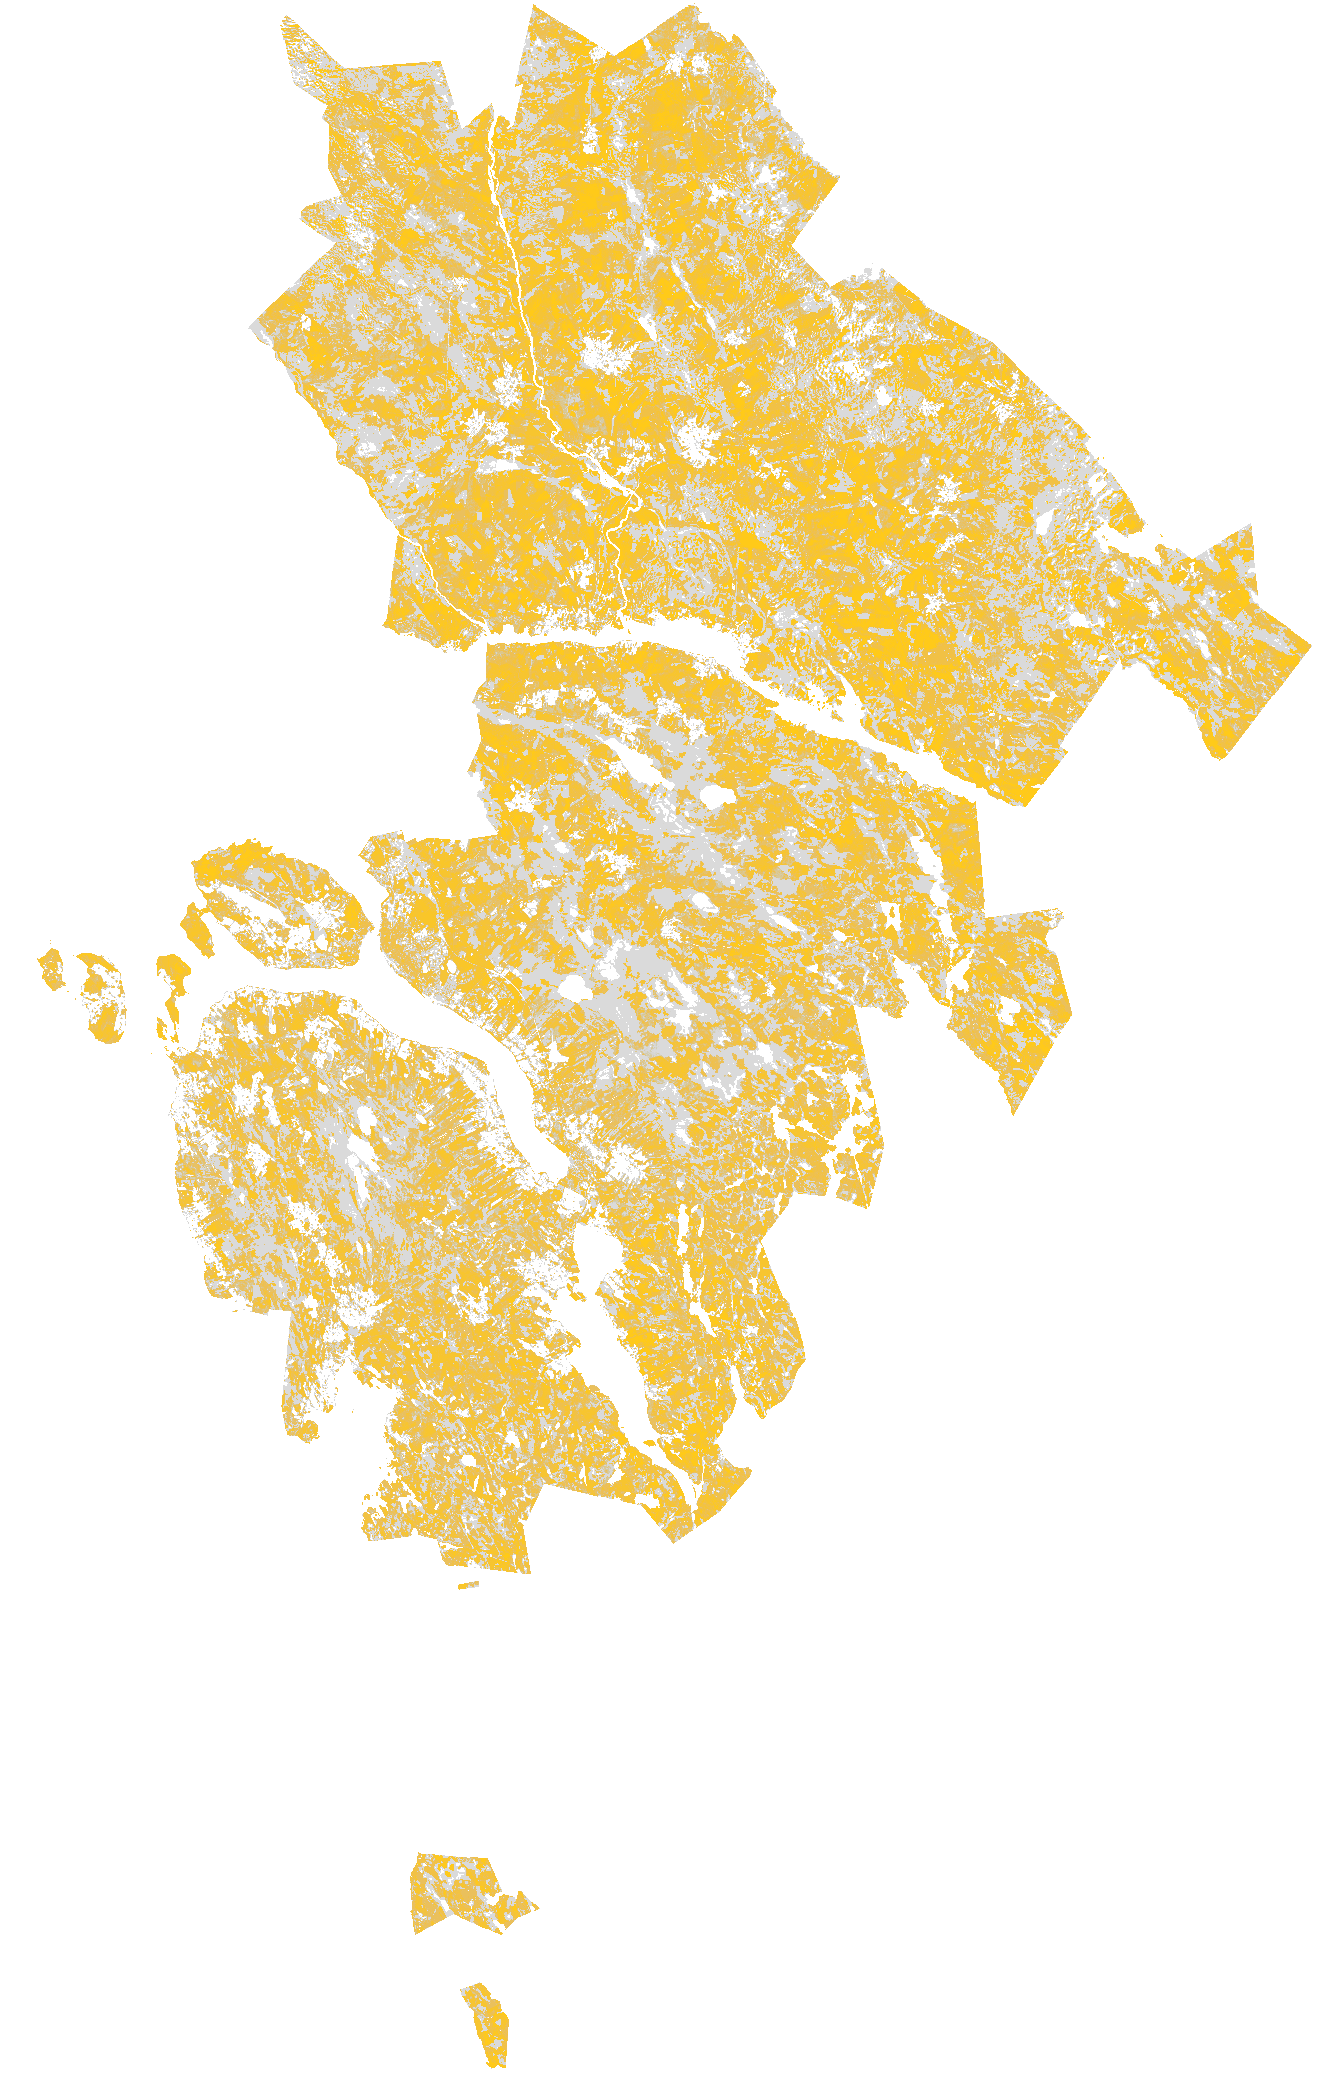
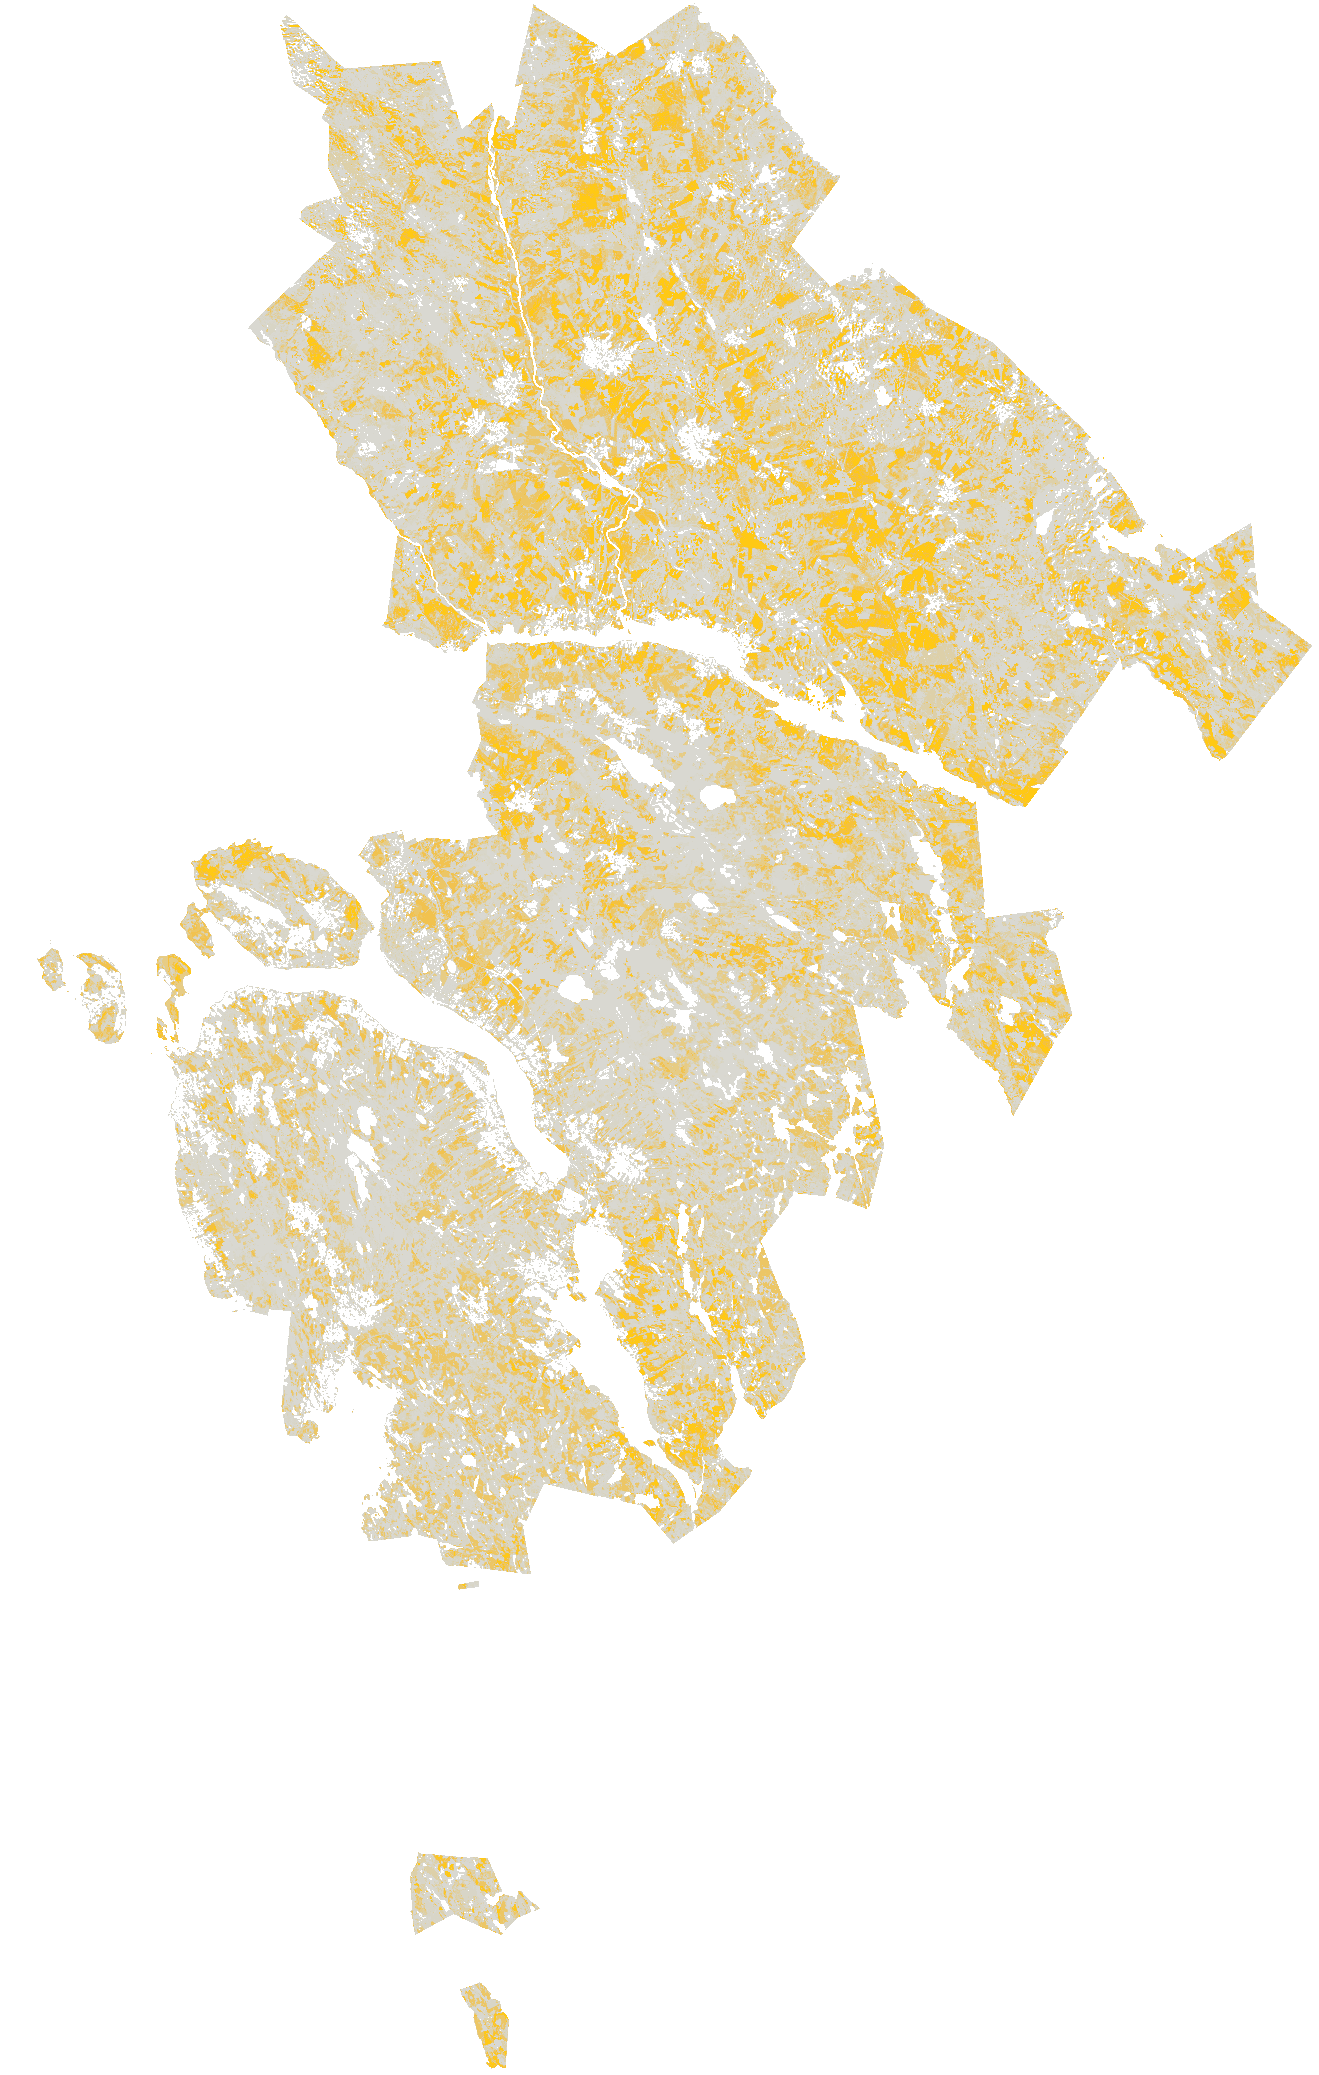
Färgskalan efter rangordning: guld är de bästa 10 % i kommunen
Nästan all skog får hög poäng i Jämtland, så kartan färgas efter rutans plats bland
kommunens skogsrutor. Förklaringen visar poängen och placeringen (bland de X % bästa).

Saida: Kantarellen KS-5

diff --git a/web/app.js b/web/app.js
@@ -52,6 +52,13 @@ async function rutaVid(lngLat) {
 }
 
 const pct = (x) => `${Math.round(x * 100)} %`;
+// Var rutan hamnar bland kommunens skogsrutor; kartans färger går efter samma rangordning
+function placering(p) {
+  const s = meta.skala;
+  if (!s?.poang?.length) return '';
+  for (let i = s.poang.length - 1; i >= 0; i--) if (p >= s.poang[i]) return `<strong>Bland de ${100 - s.percentiler[i]} % bästa</strong> i kommunen`;
+  return 'Under medel i kommunen';
+}
 function forklaring(v) {
   if (!v || v.poang === null) return '<div class="forklaring"><p>Ingen skog här, eller data saknas.</p></div>';
   const raa = {
@@ -70,6 +77,7 @@ function forklaring(v) {
   }).join('');
   return `<div class="forklaring"><div class="poang">${pct(v.poang)}</div>
     <div class="dampad">sannolikhet för kantareller${begr ? `, begränsas av ${FAKTORNAMN[begr].toLowerCase()}` : ''}</div>
+    <div>${placering(v.poang)}</div>
     <table>${rader}</table><button data-fynd>Markera fynd här</button></div>`;
 }
 
@@ -108,7 +116,7 @@ function exportera() {
 
 function omKartan() {
   const k = meta.kallor.map((s) => `<li><strong>${s.namn}</strong> (${s.vad}), ${s.datum}, licens: ${s.licens}${s.url ? `, <a href="${s.url}" target="_blank" rel="noopener">källa</a>` : ''}${s.not ? `<br><span class="dampad">${s.not}</span>` : ''}</li>`).join('');
-  $('omtext').innerHTML = `<p>Sannolikheten är en poäng ur regler om var kantareller brukar växa: trädslag, skogens ålder (trädhöjd och avverkningar), jordart, markfuktighet och höjd. Tryck på kartan för att se varför ett område bedöms som det gör.</p>
+  $('omtext').innerHTML = `<p>Sannolikheten är en poäng ur regler om var kantareller brukar växa: trädslag, skogens ålder (trädhöjd och avverkningar), jordart, markfuktighet och höjd. Färgerna går efter rangordning: guld är de 10 % bästa skogsrutorna i kommunen. Tryck på kartan för att se varför ett område bedöms som det gör.</p>
     <p class="dampad">Beräknad ${meta.skapad}. ${meta.statistik.skogsrutor.toLocaleString('sv-SE')} skogsrutor om ${meta.rutnat.ruta_m} m.</p>
     <h3>Källor</h3><ul>${k}</ul>
     <p class="dampad">Dina fynd sparas bara i den här webbläsaren och skickas aldrig någonstans.</p>`;

diff --git a/web/style.css b/web/style.css
@@ -34,7 +34,7 @@ button.lank { border: none; background: none; padding: 4px; color: var(--skog); 
   display: flex; align-items: center; gap: 6px; padding: 4px 8px; font-size: 11px; color: var(--dampad);
   background: rgba(251, 250, 245, .9); border-radius: 8px;
 }
-.skala i { width: 70px; height: 8px; border-radius: 4px; background: linear-gradient(90deg, rgb(120,120,120), rgb(170,160,110), rgb(230,170,30), rgb(255,196,0)); }
+.skala i { width: 70px; height: 8px; border-radius: 4px; background: linear-gradient(90deg, rgb(120,120,120) 0%, rgb(165,158,120) 50%, rgb(215,175,70) 75%, rgb(240,175,20) 90%, rgb(255,196,0) 100%); }
 
 dialog { border: 1px solid var(--kant); border-radius: 14px; padding: 16px; width: min(420px, calc(100% - 24px)); background: var(--yta); color: var(--text); }
 dialog h2 { margin: 0 0 8px; font-size: 18px; color: var(--skog); }

diff --git a/web/index.html b/web/index.html
@@ -22,7 +22,7 @@
     <button id="lista">Mina fynd (<span id="antal">0</span>)</button>
   </div>
 
-  <div class="skala" aria-hidden="true"><span>Osannolikt</span><i></i><span>Mest sannolikt</span></div>
+  <div class="skala" aria-hidden="true"><span>Sämst</span><i></i><span>Bästa 10 %</span></div>
 
   <dialog id="fyndform">
     <form method="dialog">

diff --git a/kantarell/forberakna.py b/kantarell/forberakna.py
@@ -49,16 +49,29 @@ def berakna(nat: Rutnat, data: dict[str, np.ndarray], innanfor: np.ndarray | Non
     return ut
 
 
-FARGER = [(0.0, (120, 120, 120, 70)), (0.4, (170, 160, 110, 130)), (0.7, (230, 170, 30, 190)), (1.0, (255, 196, 0, 230))]
+# Färgen går efter rangordning bland kommunens skogsrutor (beslut i Saida, KS-5): guld är de bästa 10 %.
+# Poängen är densamma; skalan gör att kartan skiljer ut de bästa ställena även där nästan all skog får hög poäng.
+FARGER = [(0.0, (120, 120, 120, 60)), (0.5, (165, 158, 120, 110)), (0.75, (215, 175, 70, 160)), (0.9, (240, 175, 20, 200)), (1.0, (255, 196, 0, 235))]
+TROSKLAR = [50, 75, 90]   # percentiler som webbappen visar ("bland de 10 % bästa")
 
 
-def farg(poang: np.ndarray) -> np.ndarray:
-    """Poäng till RGBA: grått (osannolikt) till guld (mest sannolikt); genomskinligt där det inte är skog."""
-    rgba = np.zeros(poang.shape + (4,), dtype=np.uint8)
+def rang(poang: np.ndarray) -> np.ndarray:
+    """Varje rutas plats bland skogsrutorna, 0 (sämst) till 1 (bäst); NaN där det inte är skog."""
+    ut = np.full(poang.shape, np.nan)
     ok = ~np.isnan(poang)
+    if ok.any():
+        sorterad = np.sort(poang[ok])
+        ut[ok] = np.searchsorted(sorterad, poang[ok], side="right") / sorterad.size
+    return ut
+
+
+def farg(rang_: np.ndarray) -> np.ndarray:
+    """Rang till RGBA: grått (sämst) till guld (de bästa 10 %); genomskinligt där det inte är skog."""
+    rgba = np.zeros(rang_.shape + (4,), dtype=np.uint8)
+    ok = ~np.isnan(rang_)
     xs = [p for p, _ in FARGER]
     for k in range(4):
-        rgba[..., k][ok] = np.interp(poang[ok], xs, [c[k] for _, c in FARGER]).astype(np.uint8)
+        rgba[..., k][ok] = np.interp(rang_[ok], xs, [c[k] for _, c in FARGER]).astype(np.uint8)
     return rgba
 
 
@@ -83,7 +96,7 @@ def skriv(nat: Rutnat, ut: dict[str, np.ndarray], kallor: list[dict], ut_dir: Pa
         antal += 1
 
     # Kartbilden: RGBA i EPSG:3006, omprojicerad till Web Mercator för MapLibre
-    rgba = farg(ut["poang"]).transpose(2, 0, 1)
+    rgba = farg(rang(ut["poang"])).transpose(2, 0, 1)
     dst_t, w, h = calculate_default_transform("EPSG:3006", "EPSG:3857", nat.bredd, nat.hojd, *nat.bounds)
     dst = np.zeros((4, h, w), dtype=np.uint8)
     for k in range(4):
@@ -103,6 +116,7 @@ def skriv(nat: Rutnat, ut: dict[str, np.ndarray], kallor: list[dict], ut_dir: Pa
         "rutnat": {"crs": "EPSG:3006", "x0": nat.x0, "y0": nat.y0, "bredd": nat.bredd, "hojd": nat.hojd, "ruta_m": RUTA_M, "block": BLOCK},
         "bild": {"fil": "poang.png", "hornen": [[lon0, lat1], [lon1, lat1], [lon1, lat0], [lon0, lat0]]},
         "kallor": kallor,
+        "skala": {"percentiler": TROSKLAR, "poang": [round(float(np.percentile(poang, q)), 3) for q in TROSKLAR] if poang.size else []},
         "statistik": {"skogsrutor": int(poang.size), "block": antal,
                       "andel_hog": round(float((poang >= 0.7).mean()), 3) if poang.size else 0},
     }

diff --git a/tests/test_forberakna.py b/tests/test_forberakna.py
@@ -43,3 +43,13 @@ def test_skog_kraver_trad_eller_avverkning_och_inte_vatten():
     data = {"tradhojd": np.array([[15, 1.5, 1.5, 15]]), "ar_sedan_avverkning": np.array([[nan, 5, nan, nan]]),
             "fukt": np.array([[2, 2, 2, nan]])}
     assert arSkog(data).tolist() == [[True, True, False, False]]   # hög skog, färskt hygge, kalmark, vatten
+
+
+def test_rangen_gor_guld_av_de_basta_tio_procenten():
+    from kantarell.forberakna import farg, rang
+    poang = np.array([[0.9] * 90 + [0.95] * 10 + [np.nan]])
+    r = rang(poang)
+    assert np.isnan(r[0, -1])
+    assert r[0, 0] == 0.9 and r[0, 95] == 1.0
+    rgba = farg(r)
+    assert rgba[0, 95, 0] == 255 and rgba[0, -1, 3] == 0
